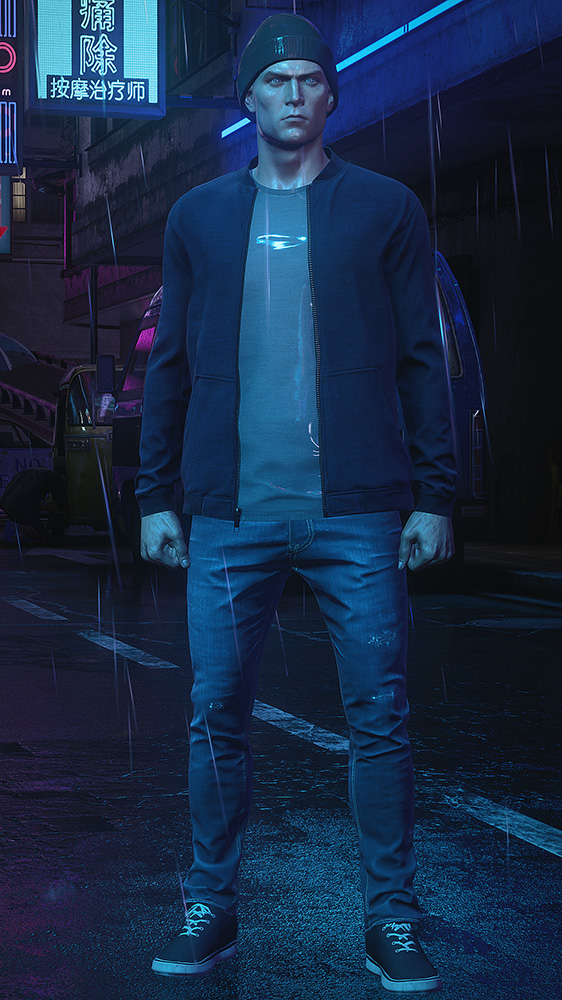
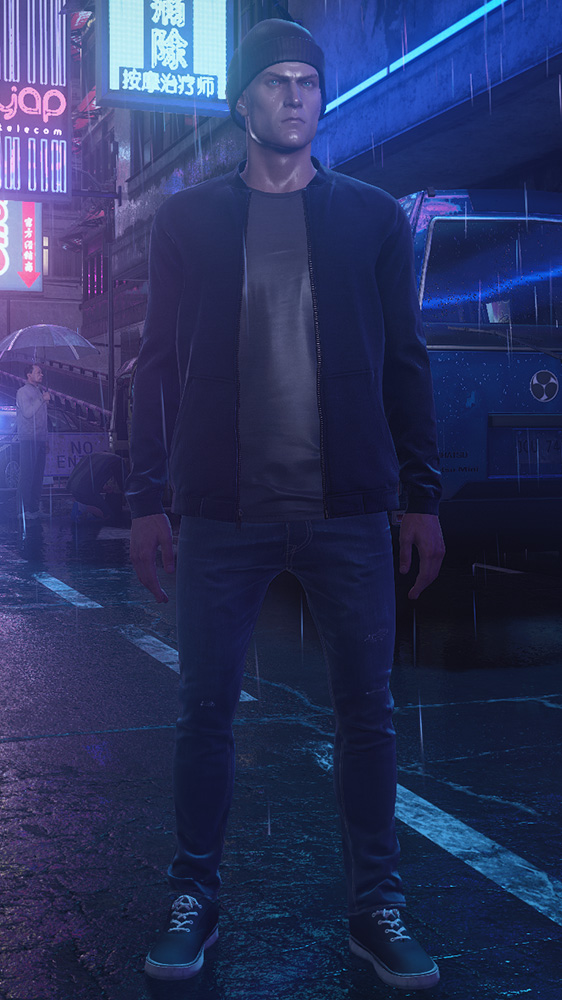
New tutorial covering property aliases, input copying and templates
Also correct some things in older tutorials.

diff --git a/docs/modding/hitman/guides/suitmodding/newoutfit.md b/docs/modding/hitman/guides/suitmodding/newoutfit.md
@@ -620,7 +620,7 @@ Open your outfit file in GlacierKit.
 Copy the following textbox (it is an entity) and paste it into the root `OUTFIT_Agent47_Street_Smart_HeroA_V0` entity by selecting Clipboard and clicking Paste.
 
 ```json
-{"rootEntity":"cafe1c73325d6168","data":{"cafe1c73325d6168":{"parent":"8d2dd8c9d88913be","name":"FX_Hitman_Wet_Logic_Character","factory":"[assembly:/_pro/effects/templates/water/fx_water_hitman_wet_logic.template?/fx_hitman_wet_logic_character.entitytemplate].pc_entitytype","blueprint":"[assembly:/_pro/effects/templates/water/fx_water_hitman_wet_logic.template?/fx_hitman_wet_logic_character.entitytemplate].pc_entityblueprint","properties":{"HeadMaterialToOverride":{"type":"ZRuntimeResourceID","value":{"resource":"[assembly:/_pro/characters/assets/_sourcefiles/male_reg_heads_unique/materials/male_reg_head_47_s3.mi].pc_mi","flag":"5F"}},"HeadMaterialOverride":{"type":"TArray<SEntityTemplateReference>","value":[],"postInit":true}},"events":{"HitmanWetness":{"T":["cafeb592e0ab9249","cafedc850188fd63","cafe57b613171dc2","cafee50db419698b"]}}},"cafe57b613171dc2":{"parent":"cafe1c73325d6168","name":"Lerp roughness fabric","factory":"[modules:/zmathlerp.class].pc_entitytype","blueprint":"[modules:/zmathlerp.class].pc_entityblueprint","properties":{"m_A":{"type":"float32","value":1.0},"m_fT":{"type":"float32","value":0.0},"m_B":{"type":"float32","value":2.0}},"events":{"Lerp":{"ConstantVector1D_14_Value":[]}}},"cafedc850188fd63":{"parent":"cafe1c73325d6168","name":"Lerp bumpmap","factory":"[modules:/zmathlerp.class].pc_entitytype","blueprint":"[modules:/zmathlerp.class].pc_entityblueprint","properties":{"m_fT":{"type":"float32","value":0.0},"m_B":{"type":"float32","value":0.30000001192092896}},"events":{"Lerp":{"ConstantVector1D_06_Value":[]}}},"cafee50db419698b":{"parent":"cafe1c73325d6168","name":"Lerp roughness other","factory":"[modules:/zmathlerp.class].pc_entitytype","blueprint":"[modules:/zmathlerp.class].pc_entityblueprint","properties":{"m_B":{"type":"float32","value":0.4000000059604645},"m_A":{"type":"float32","value":0.0},"m_fT":{"type":"float32","value":0.0}},"events":{"Lerp":{"ConstantVector1D_04_Value":[]}}},"cafeb592e0ab9249":{"parent":"cafe1c73325d6168","name":"Lerp albedo","factory":"[modules:/zmathlerp.class].pc_entitytype","blueprint":"[modules:/zmathlerp.class].pc_entityblueprint","properties":{"m_fT":{"type":"float32","value":0.0},"m_B":{"type":"float32","value":0.20000000298023224}},"events":{"Lerp":{"ConstantVector1D_01_Value":[]}}}}}
+{"rootEntity":"cafe704aaa4b21c5","data":{"cafe704aaa4b21c5":{"parent":"22ea5f8267450642","name":"FX_Hitman_Wet_Logic_Character","factory":"[assembly:/_pro/effects/templates/water/fx_water_hitman_wet_logic.template?/fx_hitman_wet_logic_character.entitytemplate].pc_entitytype","blueprint":"[assembly:/_pro/effects/templates/water/fx_water_hitman_wet_logic.template?/fx_hitman_wet_logic_character.entitytemplate].pc_entityblueprint","properties":{"HeadMaterialToOverride":{"type":"ZRuntimeResourceID","value":{"resource":"[assembly:/_pro/characters/assets/_sourcefiles/male_reg_heads_unique/materials/male_reg_head_47_s3.mi].pc_mi","flag":"5F"}},"HeadMaterialOverride":{"type":"TArray<SEntityTemplateReference>","value":[],"postInit":true}},"events":{"HitmanWetness":{"T":["cafe7713b2d0cc7f","cafe12a9bd56da15","cafea848f0bc31e6","cafecc20e8c149df","cafe714de5ad0557"]}}},"cafecc20e8c149df":{"parent":"cafe704aaa4b21c5","name":"Lerp roughness fabric","factory":"[modules:/zmathlerp.class].pc_entitytype","blueprint":"[modules:/zmathlerp.class].pc_entityblueprint","properties":{"m_A":{"type":"float32","value":0.0},"m_fT":{"type":"float32","value":0.0},"m_B":{"type":"float32","value":0.4}},"events":{"Lerp":{"ConstantVector1D_14_Value":[]}}},"cafea848f0bc31e6":{"parent":"cafe704aaa4b21c5","name":"Lerp bumpmap","factory":"[modules:/zmathlerp.class].pc_entitytype","blueprint":"[modules:/zmathlerp.class].pc_entityblueprint","properties":{"m_A":{"type":"float32","value":0},"m_fT":{"type":"float32","value":0.0},"m_B":{"type":"float32","value":0.6}},"events":{"Lerp":{"ConstantVector1D_06_Value":[]}}},"cafe714de5ad0557":{"parent":"cafe704aaa4b21c5","name":"Lerp roughness other","factory":"[modules:/zmathlerp.class].pc_entitytype","blueprint":"[modules:/zmathlerp.class].pc_entityblueprint","properties":{"m_A":{"type":"float32","value":0.0},"m_fT":{"type":"float32","value":0.0},"m_B":{"type":"float32","value":0.4}},"events":{"Lerp":{"ConstantVector1D_04_Value":[]}}},"cafe7713b2d0cc7f":{"parent":"cafe704aaa4b21c5","name":"Lerp albedo","factory":"[modules:/zmathlerp.class].pc_entitytype","blueprint":"[modules:/zmathlerp.class].pc_entityblueprint","properties":{"m_A":{"type":"float32","value":0.5},"m_fT":{"type":"float32","value":0.0},"m_B":{"type":"float32","value":0.2}},"events":{"Lerp":{"ConstantVector1D_01_Value":[]}}},"cafe12a9bd56da15":{"parent":"cafe704aaa4b21c5","name":"Lerp jacket albedo","factory":"[modules:/zmathlerp.class].pc_entitytype","blueprint":"[modules:/zmathlerp.class].pc_entityblueprint","properties":{"m_A":{"type":"float32","value":2},"m_fT":{"type":"float32","value":0.0},"m_B":{"type":"float32","value":1}},"events":{"Lerp":{"ConstantVector1D_01_Value":[]}}}}}
 ```
 
 You should now have an `FX_Hitman_Wet_Logic_Character` entity in the tree.
@@ -635,17 +635,19 @@ Now expand the `FX_Hitman_Wet_Logic_Character` entity and we will look at its ch
 
 This will make the `ConstantVector1D_01_Value` go from A to B when it is triggered. `ConstantVector1D_01_Value` is a value that controls the brightness of the albedo (or diffuse) texture. It will, in effect, make a texture darker over time.
 
-You might notice that it has an `m_B` (after) property, but not an `m_A` (before) property. If A is not specified it will use the referenced entity's standard `ConstantVector1D_01_Value` value as A.
-
 Under the `events` and `Lerp` property we find an array called `ConstantVector1D_01_Value`. This is an array of entity IDs whose `ConstantVector1D_01_Value` that the `zmathlerp` entity should modify. Right now it is empty, so let's fill it up.
 
-Like I mentioned only things made of fabric should be darker in the rain. So right click and copy the IDs of `hat_beanie_cuffed`, `Jacket_Bomber_Open`, `Pants_Jeans_Skinny`, and `TShirt_CrewNeck_Cut_Jacket`, and put them into this array, separated by commas.
+Like I mentioned only things made of fabric should be darker in the rain. So right click and copy the IDs of `hat_beanie_cuffed`, `Pants_Jeans_Skinny`, and `TShirt_CrewNeck_Cut_Jacket`, and put them into this array, separated by commas.
 
 It should look something like this when you are done.
 
 ![Supplying the Lerp albedo entity](/img/suitmodding/newoutfit/lerp_albedo.png)
 
-With the `Lerp albedo` supplied let's continue with `Lerp bumpmap`. The property for this lerp is `ConstantVector1D_06_Value` which controls how strong the normal map is.
+You will notice the jacket has its own albedo lerp. This is because its `ConstantVector1D_01_Value` starts at a much higher value (2, not 1). So if we step out of the rain the jacket's `ConstantVector1D_01_Value` will return to 1 and not 2, which is very dark. It's not uncommon to have to create multiple lerps, given that each value can be different for each body part.
+
+Supply `Jacket_Bomber_Open`'s entity ID into `Lerp jacket albedo`s event.
+
+With the `Lerp albedo`s supplied let's continue with `Lerp bumpmap`. The property for this lerp is `ConstantVector1D_06_Value` which controls how strong the normal map is.
 
 We will be using the same entities as we specified in the albedo lerp for this one, so you can copy the array and paste it in for this. Just take care not to replace `ConstantVector1D_06_Value`.
 

diff --git a/docs/modding/hitman/guides/suitmodding/propertyaliases.md b/docs/modding/hitman/guides/suitmodding/propertyaliases.md
@@ -1,0 +1,173 @@
+---
+sidebar_position: 8
+description: Exploring templates, property aliases and input copying
+---
+
+# Property Aliases, Input Copying and Template Anatomy
+
+The particularly eagle eyed out there may have noticed in the [Street Smart outfit we made](./newoutfit.md) that the bomber jacket and jeans don't actually change much in the rain. But how is that possible? We are changing the constant vectors with our lerp, so it should work?
+
+This is because the `Jacket_Bomber_Open` and `Pants_Jeans_Skinny` templates we are using don't have an *input copying* set up for the constant vectors we are using. First though let's start with a related concept known as *property aliases*. Property aliases allow us to specify things like colors, or a template's mesh.
+
+## Property aliases
+
+Let's open our Street Smart outfit project. In the `outfit_street_smart.entity.json` file, click `Jacket_Bomber_Open` in the tree.
+
+![Opening the bomber jacket template](/img/suitmodding/propertyaliases/open_factory.png)
+
+Right click the factory path and click **Open factory in new tab.** This is the jacket's template. Some properties in the screenshot have been collapsed for brevity.
+
+![The jacket template open](/img/suitmodding/propertyaliases/jacket_template.png)
+
+The top layer entity is just a blank zentity. It's essentially a clean slate and needs to be configured. It needs to pass our constant vectors along to material entities down the tree. For this, property aliases are used.
+
+For example, by *exposing* the `Mesh` entity's `m_pMeshResource` property through a property alias, we can easily change the `m_pMeshResource` directly through the template's properties as we need to, in an outfit for example.
+
+The same is true for `Diffuse_Color_01_Value` and `ConstantVector1D_01_Value`. Consider the top-most property alias:
+
+```json
+"ConstantVector1D_01_Value": [
+    {
+        "originalProperty": "ConstantVector1D_01_Value",
+        "originalEntity": "4bcc2cbe47581fe1"
+    }
+]
+```
+
+This simply means that any `ConstantVector1D_01_Value` supplied to the template will be *forwarded* to the sub-entity `4bcc2cbe47581fe1` with the property `ConstantVector1D_01_Value`.
+
+The property alias itself can be named whatever we want, as long as the `originalProperty` is the correct property name. And we can supply multiple subentities for each property alias. As an example this is perfectly valid:
+
+```json
+"Shinyness": [
+    {
+        "originalProperty": "ConstantVector1D_14_Value",
+        "originalEntity": "cafefb0bd0b2a258"
+    },
+    {
+        "originalProperty": "ConstantVector1D_04_Value",
+        "originalEntity": "cafebe430153005e"
+    }
+]
+```
+
+Then in an outfit where we implement the template, both of these constant vectors would be changed if we supply a property like this:
+
+```json
+"Shinyness": {
+    "type": "float32",
+    "value": 15.0
+}
+```
+
+## Input copying
+
+Input copying is a related concept to property aliases but you are forwarding events instead. The wet logic fires events at the clothing templates, but since there is no input copying to forward the event to the material entity inside, nothing happens.
+
+The beanie and the t-shirt in the Street Smart outfit actually have this set up already. Let's look at the t-shirt for a reference.
+
+![Opening the t-shirt's template.](/img/suitmodding/propertyaliases/open_tshirt.png)
+
+Go back to the Street Smart outfit, find the t-shirt and open its factory.
+
+![The T-shirt templates input copying forwarding events.](/img/suitmodding/propertyaliases/inputcopying.png)
+
+The format is slightly different to the property aliases but you should be able to follow the flow. When the template receives a `ConstantVector1D_06_Value` (bump map strength) event from the wet logic, it forwards it to an array of entities, which right now is only the `base_male_shirt_regular` sub-entity.
+
+Much like property aliases we can also name input copying whatever we want. As an example IOI have done this for 47's suit:
+
+![47's suit having specifically named input copying.](/img/suitmodding/propertyaliases/47_suit_inputcopying.png)
+
+But all we need to worry about is forwarding the constant vector events to the jacket's material entity, and the jeans' material entity. Let's go back to our jacket and do that.
+
+## Creating our patches
+
+### The jacket
+
+With the jacket's template open, create a new object directly after `properties` named `inputCopying`. We will need 3 objects inside `inputCopying` for our 3 constant vectors that forward to the material entity named `base_male_jacket_bomber`. Feel free to copy them here and paste under `inputCopying`:
+
+```json
+"ConstantVector1D_06_Value": {
+    "ConstantVector1D_06_Value": [
+        "4bcc2cbe47581fe1"
+    ]
+},
+"ConstantVector1D_14_Value": {
+    "ConstantVector1D_14_Value": [
+        "4bcc2cbe47581fe1"
+    ]
+},
+"ConstantVector1D_01_Value": {
+    "ConstantVector1D_01_Value": [
+        "4bcc2cbe47581fe1"
+    ]
+}
+```
+
+It should look like this when set up:
+
+![The jacket template with input copying hooked up.](/img/suitmodding/propertyaliases/corrected_jacket.png)
+
+We will also need to make sure that these 3 constant vectors `_op` parameters in the material entity are set to `eReplace`. Go to the `base_male_jacket_bomber` material entity and check.
+
+![The albedo value is set up properly.](/img/suitmodding/propertyaliases/albedo_value.png)
+
+At least `ConstantVector1D_01_Value_op` is set to `eReplace`, but `06` and `14` aren't here. Feel free to copy them here and paste them into properties:
+
+```json
+"ConstantVector1D_06_Value_op": {
+    "type": "IRenderMaterialEntity.EModifierOperation",
+    "value": "eReplace"
+},
+"ConstantVector1D_14_Value_op": {
+    "type": "IRenderMaterialEntity.EModifierOperation",
+    "value": "eReplace"
+},
+```
+
+Now save your changes. Save it under `content/chunk0` with the file name `jacket_bomber_open`.
+
+### The jeans
+
+Go back to the Street Smart outfit and open the factory for `Pants_Jeans_Skinny`. This template doesn't have any properties, so just make `inputCopying` after `blueprint`. Like before we forward our 3 constant vector events to the material entity, named `male_reg_pants_jeans`. Feel free to copy from here:
+
+```json
+"ConstantVector1D_06_Value": {
+    "ConstantVector1D_06_Value": [
+        "ecd31deec793f2a9"
+    ]
+},
+"ConstantVector1D_14_Value": {
+    "ConstantVector1D_14_Value": [
+        "ecd31deec793f2a9"
+    ]
+},
+"ConstantVector1D_01_Value": {
+    "ConstantVector1D_01_Value": [
+        "ecd31deec793f2a9"
+    ]
+}
+```
+
+It should look like this when set up:
+
+![The jacket template with input copying hooked up.](/img/suitmodding/propertyaliases/corrected_jeans.png)
+
+Like with the jacket check the material entity `male_reg_pants_jeans` for our 3 constant vector `_op` parameters. `01` and `14` are present but not `06`. Feel free to copy it here and paste under properties.
+
+```json
+"ConstantVector1D_06_Value_op": {
+    "type": "IRenderMaterialEntity.EModifierOperation",
+    "value": "eReplace"
+},
+```
+
+Now save your changes. Save it under `content/chunk0` with the file name `pants_jeans_skinny`.
+
+Deploy and see that you should now be properly soggy, with the pants and jacket wet!
+
+![47 more wet than usual.](/img/suitmodding/propertyaliases/properly_soggy.jpg)
+
+## Further reading
+
+If you want to dive deeper into these entity concepts please see the [Hitman Resources](https://hitman-resources.netlify.app/documentation/entity-system/entity-templates/overview).

diff --git a/docs/modding/hitman/guides/suitmodding/options.md b/docs/modding/hitman/guides/suitmodding/options.md
@@ -15,6 +15,8 @@ Let us take our [Street Smart](./newoutfit.md) outfit and introduce a pair of gl
 
 First off you actually *cannot* use GlacierKit for this as it does not presently have the ability to patch custom entities, only stock game entities. You will need to download the legacy [QuickEntity Editor](https://github.com/atampy25/quickentity-editor-next/releases/latest/) to make options for your custom entities. So download it now and install it.
 
+Due to a potential bug you may need to manually create the QuickEntity working directory. Hit Win + R, type `%APPDATA%` and hit Enter. In this folder create the folder `app.quickentity.editor`.
+
 ## Preparing
 
 In your mod folder `MyName.StreetSmart`, create a new folder called `patches`. In that folder, make a folder called `gloves`. In that folder, make a folder called `leather`. In that folder, make a folder called `chunk0`.
